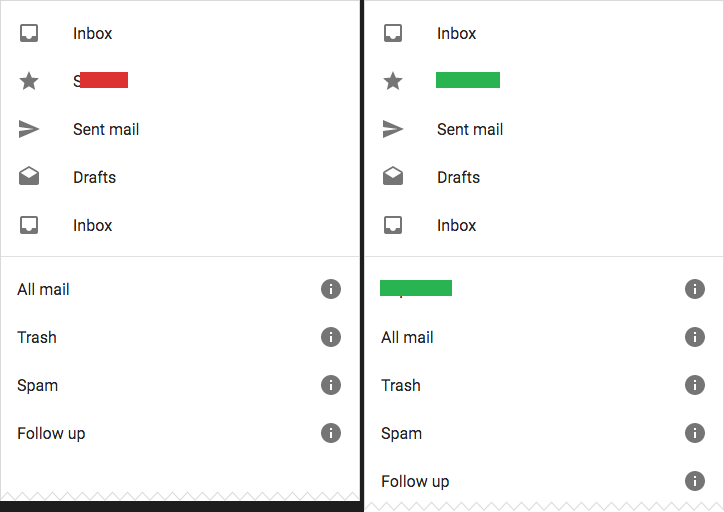
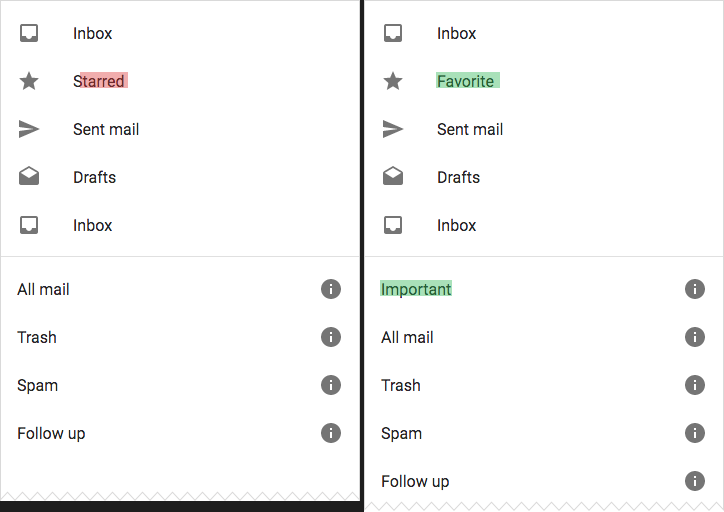
feat(render): blend the Filled highlight at ~40% opacity
Solid 100% fill obscured the content underneath, which defeated the
purpose of seeing WHICH text changed. Switch Filled to blend at
alpha=102 (~40%) so the underlying glyphs stay readable while still
giving a strong visual cue. Outline remains fully opaque so the
boundary stays crisp.

Changed region(s): [[0.5166, 0.5312, 0.6381, 0.5938], [0.6077, 0.125, 0.6989, 0.1875], [0.0912, 0.125, 0.1823, 0.1875]]

diff --git a/src/render.rs b/src/render.rs
@@ -107,8 +107,9 @@ pub enum HighlightStyle {
     /// wide). Underlying content stays visible — recommended for review
     /// workflows.
     Outline { stroke: u32 },
-    /// Fill the region's bounding box with the highlight color (no
-    /// transparency). High visibility but obscures content.
+    /// Fill the region's bounding box with the highlight color blended at
+    /// ~40 % opacity. Strong visual cue while still letting the underlying
+    /// content show through.
     Filled,
 }
 
@@ -159,6 +160,20 @@ pub fn render_diff(
     out
 }
 
+/// Alpha used for the `Filled` style — ~40 % so underlying content stays
+/// legible. Outline stays fully opaque so the boundary is crisp.
+const FILLED_ALPHA: u8 = 102;
+
+#[inline]
+fn blend_pixel(img: &mut RgbaImage, x: u32, y: u32, color: [u8; 3], alpha: u8) {
+    let a = alpha as u16;
+    let inv = 255u16 - a;
+    let px = img.get_pixel_mut(x, y);
+    px.0[0] = ((color[0] as u16 * a + px.0[0] as u16 * inv) / 255) as u8;
+    px.0[1] = ((color[1] as u16 * a + px.0[1] as u16 * inv) / 255) as u8;
+    px.0[2] = ((color[2] as u16 * a + px.0[2] as u16 * inv) / 255) as u8;
+}
+
 fn paint_regions(
     img: &mut RgbaImage,
     regions: &[Region],
@@ -166,7 +181,7 @@ fn paint_regions(
     style: HighlightStyle,
 ) {
     let (w, h) = (img.width(), img.height());
-    let c = Rgba([color[0], color[1], color[2], 255]);
+    let solid = Rgba([color[0], color[1], color[2], 255]);
     for r in regions {
         let x1 = r.x.min(w);
         let y1 = r.y.min(h);
@@ -179,7 +194,7 @@ fn paint_regions(
             HighlightStyle::Filled => {
                 for y in y1..y2 {
                     for x in x1..x2 {
-                        img.put_pixel(x, y, c);
+                        blend_pixel(img, x, y, color, FILLED_ALPHA);
                     }
                 }
             }
@@ -188,12 +203,12 @@ fn paint_regions(
                 // Top + bottom bands.
                 for y in y1..(y1 + s).min(y2) {
                     for x in x1..x2 {
-                        img.put_pixel(x, y, c);
+                        img.put_pixel(x, y, solid);
                     }
                 }
                 for y in y2.saturating_sub(s).max(y1)..y2 {
                     for x in x1..x2 {
-                        img.put_pixel(x, y, c);
+                        img.put_pixel(x, y, solid);
                     }
                 }
                 // Left + right bands (skip rows already drawn above).
@@ -201,10 +216,10 @@ fn paint_regions(
                 let inner_y2 = y2.saturating_sub(s).max(inner_y1);
                 for y in inner_y1..inner_y2 {
                     for x in x1..(x1 + s).min(x2) {
-                        img.put_pixel(x, y, c);
+                        img.put_pixel(x, y, solid);
                     }
                     for x in x2.saturating_sub(s).max(x1)..x2 {
-                        img.put_pixel(x, y, c);
+                        img.put_pixel(x, y, solid);
                     }
                 }
             }